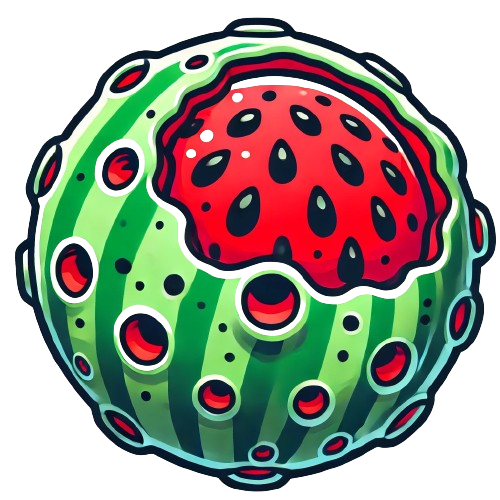
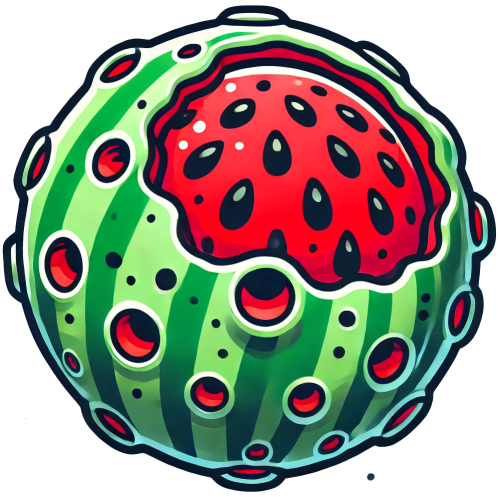
Add : 오브젝트 이미지 수정

diff --git a/src/components/menu.tsx b/src/components/menu.tsx
@@ -10,7 +10,7 @@ import {
 } from '../constants/store'
 import styled from 'styled-components'
 import { useState, useRef, useEffect } from 'react'
-import { length } from '../constants/mapInfo'
+// import { length } from '../constants/mapInfo'
 
 const Menu: React.FC = () => {
   const [score, setScore] = useRecoilState(scoreState)
@@ -26,7 +26,7 @@ const Menu: React.FC = () => {
   const messageBoxRef = useRef<HTMLDivElement>(null)
   const [messageBoxHeight, setMessageBoxHeight] = useState<string>('200px')
   const scoreRef = useRef<HTMLParagraphElement>(null)
-  const buttonsRef = useRef<HTMLDivElement>(null)
+  // const buttonsRef = useRef<HTMLDivElement>(null)
   const encyclopediaRef = useRef<HTMLDivElement>(null)
   const [isUIVisible] = useRecoilState(uiVisibleState)
   const [messages] = useRecoilState(messageList)
@@ -36,15 +36,15 @@ const Menu: React.FC = () => {
       if (
         messageBoxRef.current &&
         scoreRef.current &&
-        buttonsRef.current &&
+        // buttonsRef.current &&
         encyclopediaRef.current
       ) {
         const bottomOffset = 170
         const viewportHeight = window.innerHeight
         const scoreHeight = scoreRef.current.offsetHeight
-        const buttonsHeight = buttonsRef.current.offsetHeight
+        // const buttonsHeight = buttonsRef.current.offsetHeight
         const encyclopediaHeight = encyclopediaRef.current.offsetHeight
-        const totalHeight = scoreHeight + buttonsHeight + encyclopediaHeight
+        const totalHeight = scoreHeight + encyclopediaHeight
         const newHeight = `${viewportHeight - bottomOffset - totalHeight}px`
         setMessageBoxHeight(newHeight)
       }
@@ -74,27 +74,27 @@ const Menu: React.FC = () => {
     setIsMenuVisible(isMenuVisible === 'false' ? 'true' : 'false')
   }
 
-  const decreaseScore = () => {
-    setScore(score - 1)
-  }
+  // const decreaseScore = () => {
+  //   setScore(score - 1)
+  // }
 
-  const addScore = () => {
-    setScore(score + 1)
-  }
+  // const addScore = () => {
+  //   setScore(score + 1)
+  // }
 
-  const handleAddObjectClick = () => {
-    const newObject: ObjectInfo = {
-      id: Date.now(),
-      $x_position: Math.random() * length,
-      $y_position: Math.random() * length,
-      $angle: Math.random() * 360,
-      $img_number: `obj${Math.floor(Math.random() * 10) + 1}`,
-      x_delta: Math.random() * 2 - 1,
-      y_delta: Math.random() * 2 - 1,
-      angle_delta: Math.random() * 2 - 1,
-    }
-    addObject([newObject])
-  }
+  // const handleAddObjectClick = () => {
+  //   const newObject: ObjectInfo = {
+  //     id: Date.now(),
+  //     $x_position: Math.random() * length,
+  //     $y_position: Math.random() * length,
+  //     $angle: Math.random() * 360,
+  //     $img_number: `obj${Math.floor(Math.random() * 10) + 1}`,
+  //     x_delta: Math.random() * 2 - 1,
+  //     y_delta: Math.random() * 2 - 1,
+  //     angle_delta: Math.random() * 2 - 1,
+  //   }
+  //   addObject([newObject])
+  // }
 
   const handleAddChatObject = (message: string) => {
     const mainCharacter = objects[0]
@@ -151,11 +151,11 @@ const Menu: React.FC = () => {
           <MenuButton onClick={toggleMenu}>Menu</MenuButton>
           <MenuBox $visible={isMenuVisible}>
             <p ref={scoreRef}>Score: {score}</p>
-            <ButtonsContainer ref={buttonsRef}>
+            {/* <ButtonsContainer ref={buttonsRef}>
               <Buttons onClick={decreaseScore}>Decrease Score</Buttons>
               <Buttons onClick={addScore}>Add Score</Buttons>
               <Buttons onClick={handleAddObjectClick}>Add New Object</Buttons>
-            </ButtonsContainer>
+            </ButtonsContainer> */}
             <form>
               <ChatInput
                 value={chatInput}
@@ -270,15 +270,15 @@ const EncyclopediaBox = styled.div`
   flex-direction: row;
 `
 
-const Buttons = styled.button`
-  height: 20px;
-  width: 100px;
-`
+// const Buttons = styled.button`
+//   height: 20px;
+//   width: 100px;
+// `
 
-const ButtonsContainer = styled.div`
-  display: flex;
-  gap: 10px;
-`
+// const ButtonsContainer = styled.div`
+//   display: flex;
+//   gap: 10px;
+// `
 
 interface EncyclopediaDomProp {
   $backgroundimg: string
@@ -297,6 +297,8 @@ const Encyclopedia = styled.div.attrs<EncyclopediaDomProp>(
   margin: 8px;
   border: 1px solid black;
   position: relative;
+  filter: brightness(0.1);
+  z-index: 1;
 
   &:hover::after {
     content: '';

diff --git a/src/components/object.tsx b/src/components/object.tsx
@@ -96,10 +96,10 @@ const ObjectComponent: React.FC = () => {
   const [isUIVisible, setIsUIVisible] = useRecoilState(uiVisibleState)
   const [first, setFirst] = useRecoilState(firstState)
 
-  const clearLocalStorage = () => {
-    localStorage.clear()
-    window.location.reload() // 페이지를 새로고침하여 변경사항을 반영합니다.
-  }
+  // const clearLocalStorage = () => {
+  //   localStorage.clear()
+  //   window.location.reload() // 페이지를 새로고침하여 변경사항을 반영합니다.
+  // }
 
   useEffect(() => {
     dispatch({ type: 'SET_OBJECTS', payload: objects })
@@ -377,7 +377,7 @@ const ObjectComponent: React.FC = () => {
       {isUIVisible && (
         <ScoreInfo>
           {score}
-          <button onClick={clearLocalStorage}>Clear Local Storage</button>
+          {/* <button onClick={clearLocalStorage}>Clear Local Storage</button> */}
         </ScoreInfo>
       )}
       {/* <ScoreInfo>{score}</ScoreInfo> */}
